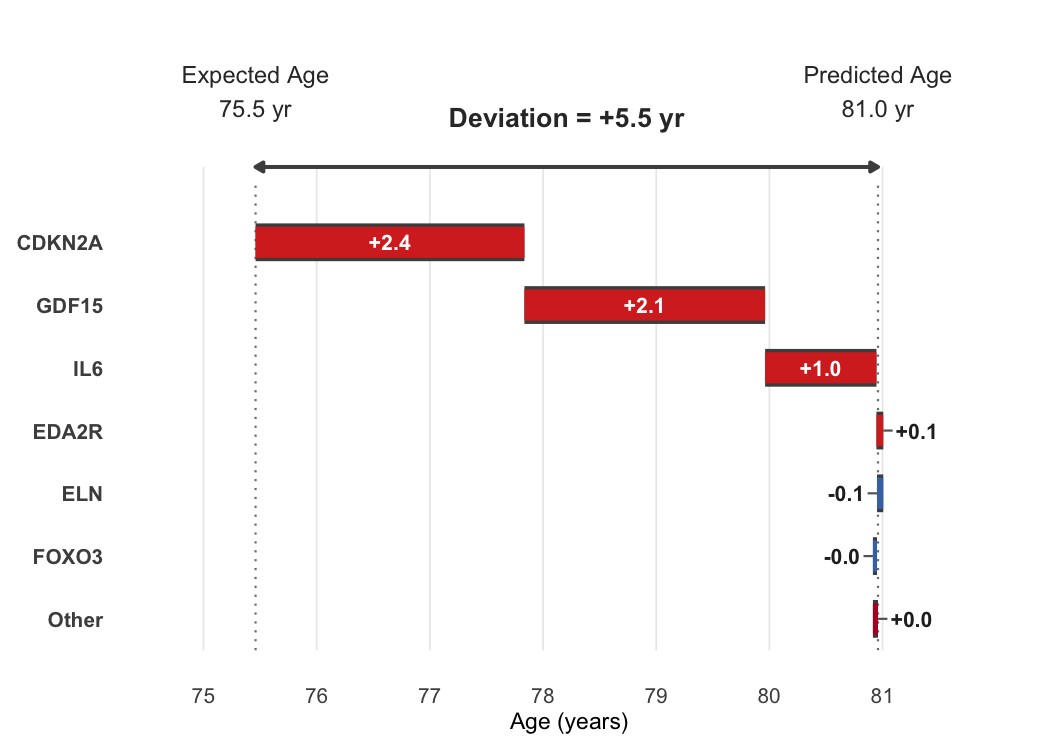
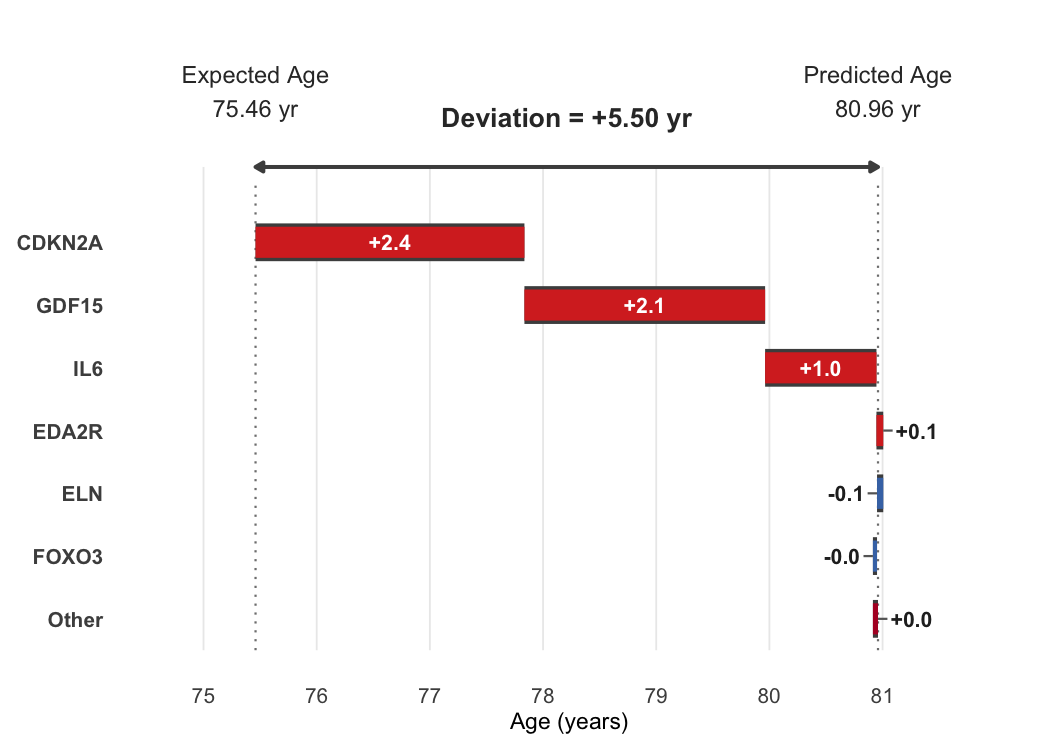
Clarify README sample interpretation wording

Changed region(s): [[0.4267, 0.1227, 0.6705, 0.184], [0.7924, 0.1227, 0.8838, 0.1533], [0.2133, 0.1227, 0.2743, 0.184]]

diff --git a/README.md b/README.md
@@ -9,8 +9,8 @@ linear, ridge, or elastic-net regression).
 
 It answers a single question:
 
-> **Why is this sample predicted to be biologically older or younger
-> than expected for its chronological age?**
+> **Why is this sample predicted to be older or younger than expected
+> for its chronological age?**
 
 The method was developed for tissue-anchored transcriptomic aging clocks
 but is designed to support comparative aging analyses across diverse
